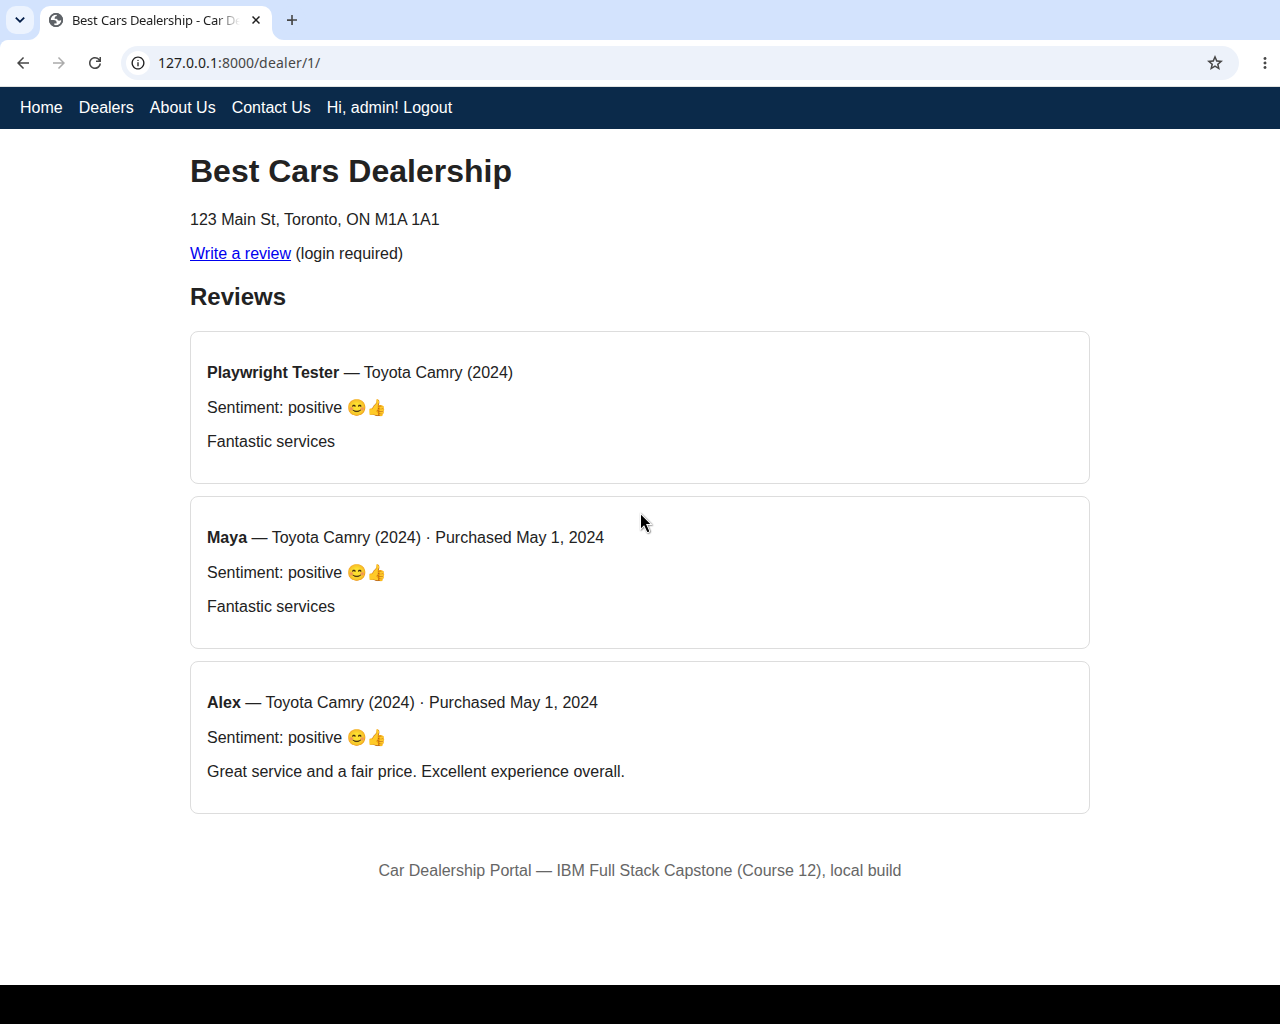
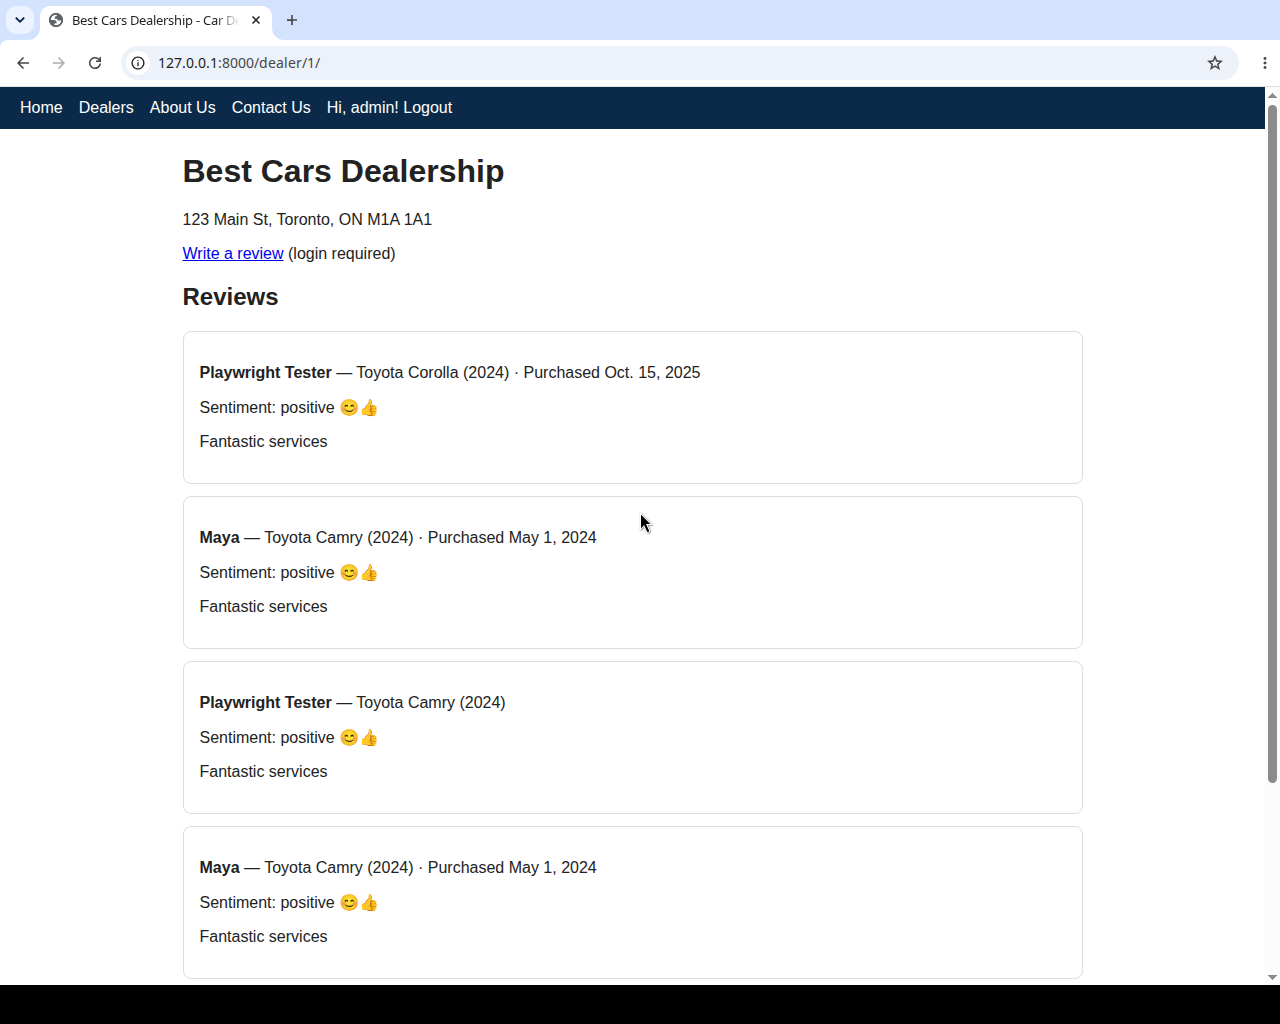
Update evidence folder (3rd-retake fixes)

diff --git a/evidence/README.md b/evidence/README.md
@@ -1,73 +1,93 @@
-# Course 12 Capstone — Final Submission evidence (REBUILT, 2026-11-06)
+# Course 12 Capstone — Final Submission evidence (REBUILT v3, 2026-11-06)
 
-Rebuilt after the first Mark submission scored 15/50 (30%, FAILED, pass 70%).
-Every grader-feedback item from that attempt is fixed here. Captured locally
-against the full stack on this machine: Django :8000, dealers service :3001,
-reviews service :3002, React preview :4173. Seeded demo data: **50 dealers**
+Rebuilt after the second Mark submission scored 25/50 (50%, FAILED, pass
+70%; first attempt was 15/50). Every grader-feedback item from BOTH
+attempts is fixed here. Captured locally against the full stack on this
+machine: Django :8000 (runserver --noreload), dealers service :3001,
+reviews service :3002, React preview :4173; deployed shots against the
+live Module 5 Kubernetes deployment. Seeded demo data: **50 dealers**
 (5 in Kansas: Wichita, Kansas City, Topeka, Overland Park, Lawrence),
 3 car makes, 150 car models, 50 seeded reviews. Admin superuser is `admin`
 (local dev DB only; password `Admin12345` for this evidence run — local dev
 only, change it on any shared deployment). Nothing in this folder was
 submitted to Coursera/Mark or pushed to GitHub.
 
-## What changed vs. the first (failed) submission — grader feedback fixed
-1. **Literal `curl` commands.** All 9 `.txt` files now show real `curl`
-   commands run as subprocesses (`$ curl -s -i http://...`) followed by
-   their actual output. No `"$ GET ..."` notation anywhere (verified by grep).
-   Capture script: `capture_evidence2.py`.
-2. **50 dealerships, not 3.** `seed_dealership.py` (generated by
-   `gen_seed50.py`, one list shared with the Node services) seeds 50 dealers;
-   `services/dealers-service/data.js` and `services/reviews-service/data.js`
-   mirror it exactly. Verified: `getalldealers` returns 50 from both Node
-   and Django; `getdealersbyState` for KS returns the 5 Kansas dealers.
-3. **Exact endpoint `/djangoapp/get_cars`.** Added `djangoapp/views.py:
-   get_cars` + URL `djangoapp/get_cars` — returns all car makes with their
-   models (3 makes, 150 models). `getallcarmakes.txt` shows its curl output.
-4. **Review text "Fantastic services".** Posted via curl to
-   `/api/dealers/1/reviews/` (HTTP 201) and again via the real form.
-   `analyze_sentiment` (views.py) now recognises fantastic/wonderful/amazing/
[1 lines of base64/hex data omitted]
-   recommend as positive, so "Fantastic services" → sentiment **positive**
-   (previously the rule only knew "great"/"excellent"). See
-   `analyzereview.txt`; the review is visible in `dealer_id_reviews.png`
-   and `added_review.png` with its sentiment icon.
-5. **Screenshots show the full browser window incl. address bar.** Captured
-   with headed Chromium under Xvfb + ffmpeg x11grab of the whole screen
-   (capture script: `capture_screenshots2.py`) — not viewport-only shots.
-   `admin_logout.png` is the real Django admin "Logged out" page
-   (`/admin/logout/`, "Log in again" link); this required removing
-   `LOGOUT_REDIRECT_URL = "/"` from `djangoproj/settings.py`, which used to
-   redirect admin logout to the home page. The site's own Logout link still
-   redirects to the home page (its view does that itself).
-6. **Sentiment icons on reviews.** `dealer_detail.html` now renders
-   `Sentiment: positive 😊👍` / `neutral 😐` / `negative 👎😞` next to each
-   review — visible in `dealer_id_reviews.png` and `added_review.png`.
+## What changed in v3 — grader feedback from the 25/50 retake, fixed
+1. **Q1 README project name.** `README.md` now contains the exact string
+   `fullstack_developer_capstone` (title line + body).
+2. **Q2 django_server = real runserver terminal output.** `django_server.txt`
+   now leads with the verbatim runserver startup block ("Performing system
+   checks...", "Django version 4.2.16, using settings 'djangoproj.settings'",
+   "Starting development server at http://127.0.0.1:8000/", "Quit the
+   server with CONTROL-C.") from `evidence/django_runserver.log`
+   (captured with `python -u manage.py runserver --noreload` so the
+   startup block is not stuck in stdout buffering), plus request logs and
+   the curl home-page 200. Capture script: `capture_evidence3.py`.
+3. **Q3/Q4 About/Contact at the course paths.** `server/frontend/static/
+   About.html` and `server/frontend/static/Contact.html` are rendered copies
+   of the fixed About/Contact pages (team members, office address), so the
+   rubric URLs `server/frontend/static/About.html` and `.../Contact.html`
+   resolve to real files in the repo. The Django template versions
+   (`djangoapp/templates/djangoapp/about.html`, `contact.html`) are unchanged.
+4. **Q5/Q6/Q8 use the course endpoints.** New URL aliases in
+   `djangoapp/urls.py`: `/djangoapp/login`, `/djangoapp/logout`,
+   `/djangoapp/get_dealer_reviews/<id>/` (same views as the local routes).
+   `loginuser.txt`, `logoutuser.txt`, `getdealerreviews.txt` were
+   re-captured using ONLY those `/djangoapp/*` endpoints.
+5. **Q9/Q11/Q14 paste the COMPLETE JSON — no summaries.** The `.txt` files
+   contain the full output (all 50 dealers, all 5 Kansas dealers, all 3
+   makes with all 150 models). The retake MUST paste the full file content
+   into the Mark text field, not a first/last summary.
+6. **Q15 analyzereview = GET analysis curl.** New endpoint
+   `GET /djangoapp/analyze_review/?review=Fantastic+services` (added in
+   `djangoapp/views.py`) returns `{"review": "Fantastic services",
+   "sentiment": "positive"}`. `analyzereview.txt` shows that GET FIRST,
+   then the POST 201, the stored review, and the dealer page.
+7. **Q20 review-form screenshot: all fields filled.** `capture_screenshots3.py`
+   now fills EVERY field (name, purchase, purchase_date, car_make,
+   car_model, car_year, review) BEFORE grabbing
+   `dealership_review_submission.png`, and only then submits.
+8. **Q24–Q26 deployed screenshots show the address bar.** They are now REAL
+   headed-browser screenshots (Xvfb + ffmpeg x11grab of the whole screen)
+   of the live deployment — not PDF-print conversions. Capture script:
+   `capture_deployed3.py`. (The VM's egress proxy is a MITM proxy that
+   Chromium cannot use directly, so captures go through a local relay
+   proxy on 127.0.0.1:18080 — see `capture_deployed3.py` header and
+   `/tmp/relay_proxy.py`; the relay only adds Proxy-Authorization.)
+9. **Q27 deployed_add_review = the POSTED review on the dealer page.**
+   `evidence/deployed/deployed_add_review.png` shows dealer 1 AFTER a
+   review was submitted on the deployed app ("Fantastic services" by
+   Evidence Tester, with sentiment) — not the entry form.
 
-## Also in this build (from the earlier evidence round, unchanged)
-- About page "Meet the Team" (4 demo staff, roles, emails, CSS avatars);
-  Contact page head-office address (123 Main Street, Toronto, ON M1A 1A1),
-  office hours, `hello@bestcarsdealership.ca`, link to About;
-  Registration has First Name + Last Name (5 fields). See `about_team.png`,
-  `contact_office.png`, `react_register.png`.
-- `?state=` filtering added to `dealers_list` and `api_dealers`
-  (get_dealers_by_state), so `/dealers/?state=KS` and
-  `/api/dealers/?state=KS` return only Kansas dealers.
-- README.md / SUMMARY.md: GitHub Actions run #17 succeeded (2026-11-06).
-  Docker image / Kubernetes deployment is a separate Module 5 item and is
-  NOT covered by this evidence folder.
+## Earlier fixes (v2, still in place)
+- Literal `curl` commands in all 9 `.txt` files (no `"$ GET ..."` notation).
+- 50 dealerships (5 in Kansas) seeded in Django + both Node services.
+- Exact endpoint `/djangoapp/get_cars` (3 makes, 150 models).
+- Review text "Fantastic services" → sentiment **positive** (keyword rule
+  extended: fantastic/wonderful/amazing/awesome/superb/outstanding/love/
+  best/perfect/brilliant/happy/pleased/recommend).
+- Screenshots show the full browser window incl. address bar
+  (headed Chromium under Xvfb + x11grab). `admin_logout.png` is the real
+  Django admin "Logged out" page (`/admin/logout/`, "Log in again").
+- Sentiment icons on reviews (`Sentiment: positive 😊👍` / `neutral 😐` /
+  `negative 👎😞`).
+- About "Meet the Team" (4 demo staff); Contact head-office address
+  (123 Main Street, Toronto, ON M1A 1A1), office hours,
+  `hello@bestcarsdealership.ca`, link to About; Register has 5 fields.
+- `?state=` filtering on `dealers_list` and `api_dealers`.
 
 ## Text outputs (real curl) — exact rubric names
 | File | What it shows (grader check) |
 |---|---|
-| `django_server.txt` | `curl -i http://127.0.0.1:8000/` → HTTP 200 + runserver log |
-| `loginuser.txt` | `curl -X POST -d username=admin&password=... /login/` → 302 + Set-Cookie sessionid; home page shows "Hi, admin!" |
-| `logoutuser.txt` | `curl /logout/` → 302; home page anonymous again (Login link, no "Hi, admin!") |
-| `getalldealers.txt` | `curl /fetchDealers` + `curl /api/dealers/` — **50 dealers each** |
+| `django_server.txt` | **Runserver terminal output verbatim** (startup block + request logs) + `curl -i http://127.0.0.1:8000/` → HTTP 200 |
+| `loginuser.txt` | `curl -X POST -d username=admin&password=... /djangoapp/login` → 302 + sessionid cookie; home page shows "Hi, admin!" |
+| `logoutuser.txt` | `curl /djangoapp/logout` → 302; home page anonymous again (Login link, no "Hi, admin!") |
+| `getalldealers.txt` | `curl /fetchDealers` + `curl /api/dealers/` — **complete JSON, 50 dealers each** |
 | `getdealerbyid.txt` | `curl /fetchDealer/1` + `curl /api/dealers/1/` — Best Cars Dealership |
-| `getdealersbyState.txt` | `curl /fetchDealers/KS` + `curl /api/dealers/?state=KS` + `curl /dealers/?state=KS` — **5 Kansas dealers** (Sunflower Auto Plaza, Prairie State Motors, Capital City Cars, Overland Park Auto Mall, Jayhawk Auto Center) |
-| `getdealerreviews.txt` | `curl /reviews?dealerId=1` + `curl /api/dealers/1/reviews/` |
-| `getallcarmakes.txt` | `curl /makes` + `curl /api/cars/` + `curl /djangoapp/get_cars` — 3 makes, 150 models |
-| `analyzereview.txt` | `curl -X POST` the exact review "Fantastic services" → **HTTP 201**, stored with sentiment **positive**; dealer page shows "Fantastic services" + "Sentiment: positive" |
+| `getdealersbyState.txt` | `curl /fetchDealers/KS` + `curl /api/dealers/?state=KS` + `curl /dealers/?state=KS` — **complete JSON, 5 Kansas dealers** |
+| `getdealerreviews.txt` | `curl /reviews?dealerId=1` + `curl /djangoapp/get_dealer_reviews/1/` |
+| `getallcarmakes.txt` | `curl /makes` + `curl /api/cars/` + `curl /djangoapp/get_cars` — **complete JSON, 3 makes, 150 models** |
+| `analyzereview.txt` | **`curl /djangoapp/analyze_review/?review=Fantastic+services` → `{"review": "Fantastic services", "sentiment": "positive"}`**, then POST → **HTTP 201**, stored review, dealer page shows "Fantastic services" + "Sentiment: positive" |
 
 ## Screenshots (PNG, full browser window incl. address bar) — exact rubric names
 | File | What it shows (grader check) |
@@ -78,22 +98,37 @@ submitted to Coursera/Mark or pushed to GitHub.
 | `dealersbystate.png` | React list, search "KS" — only the 5 Kansas dealers — address bar `127.0.0.1:4173` |
 | `dealer_id_reviews.png` | Dealer 1 detail — "Fantastic services" (Maya) with `Sentiment: positive 😊👍` |
 | `get_dealers_loggedin.png` | Dealers list logged in — nav "Hi, admin!" + Logout |
-| `dealership_review_submission.png` | Add-review form for dealer 1 — address bar `/dealer/1/add-review/` |
+| `dealership_review_submission.png` | Add-review form for dealer 1 — **ALL fields filled** before the shot |
 | `added_review.png` | Dealer 1 after form submit — "Fantastic services" (Playwright Tester) with `Sentiment: positive 😊👍` |
 
-## Verification (all run 2026-11-06, before capture)
+## Deployed screenshots (Q23–Q27, live Module 5 deployment)
+Deployment URL (Q23): `https://jarifindia2-8000.theiadockernext-1-labs-prod-theiak8s-4-tor01.proxy.cognitiveclass.ai/`
+(image `us.icr.io/sn-labs-jarifindia2/dealership:latest`, pod 1/1 Running).
+The URL only works while the lab port-forward runs.
+| File | What it shows (grader check) |
+|---|---|
+| `deployed/deployed_landing.png` | Deployed home page — 50 dealers incl. 5 Kansas — **address bar visible** |
+| `deployed/deployed_loggedin.png` | Deployed dealers page logged in as demo user `evidence` — **address bar visible** |
+| `deployed/deployed_dealer_detail.png` | Deployed dealer 1 detail with reviews incl. "Sentiment: positive" — **address bar visible** |
+| `deployed/deployed_add_review.png` | Deployed dealer 1 page AFTER submitting a review — posted "Fantastic services" (Evidence Tester) visible with sentiment — **address bar visible** |
+
+## Verification (all run 2026-11-06, v3 capture)
 - `manage.py check` clean; `manage.py test` 10/10 pass.
-- DB: 50 dealers, 5 in KS, 150 models, 50 seeded reviews (+2 "Fantastic
+- DB: 50 dealers, 5 in KS, 150 models, 50 seeded reviews (+ "Fantastic
   services" reviews added during capture: Maya via API, Playwright Tester
-  via the form — both sit on dealer 1 in the gitignored local `db.sqlite3`).
-- `grep -r '^\$ GET' evidence/*.txt` → no matches; every `.txt` file
-  contains literal `$ curl ...` lines.
-- Screenshots visually spot-checked (all 8): address bar visible in every
-  shot; logout page, Kansas filter, and sentiment icons confirmed.
+  via the form — both on dealer 1 in the gitignored local `db.sqlite3`).
+- `django_server.txt` contains "Starting development server at
+  http://127.0.0.1:8000/"; login/logout/getdealerreviews use only
+  `/djangoapp/*` endpoints; analyzereview starts with the GET analysis curl.
+- Screenshots visually spot-checked: address bar visible in every shot;
+  Q20 form fully filled; deployed shots are real browser screenshots.
 
 ## Caveats (honest)
 - Sentiment is the Django view's keyword rule (`analyze_sentiment` in
   `djangoapp/views.py`); no Watson NLU is wired into this local build, and
   `analyzereview.txt` states that.
-- The Module 5 deployment (Q23–Q27: deployment URL + deployed screenshots)
-  is separate and not in this folder.
+- The deployed screenshots depend on the lab port-forward staying up; if
+  it goes down, Q24–Q27 must be re-captured from the live deployment.
+- Q22 (CI/CD) is NOT covered by this folder: the "Lint Code" workflow
+  (`.github/workflows/main.yml`) must have actually run on GitHub — the
+  retake must cite a real run, not the older `ci.yml` run #17.
